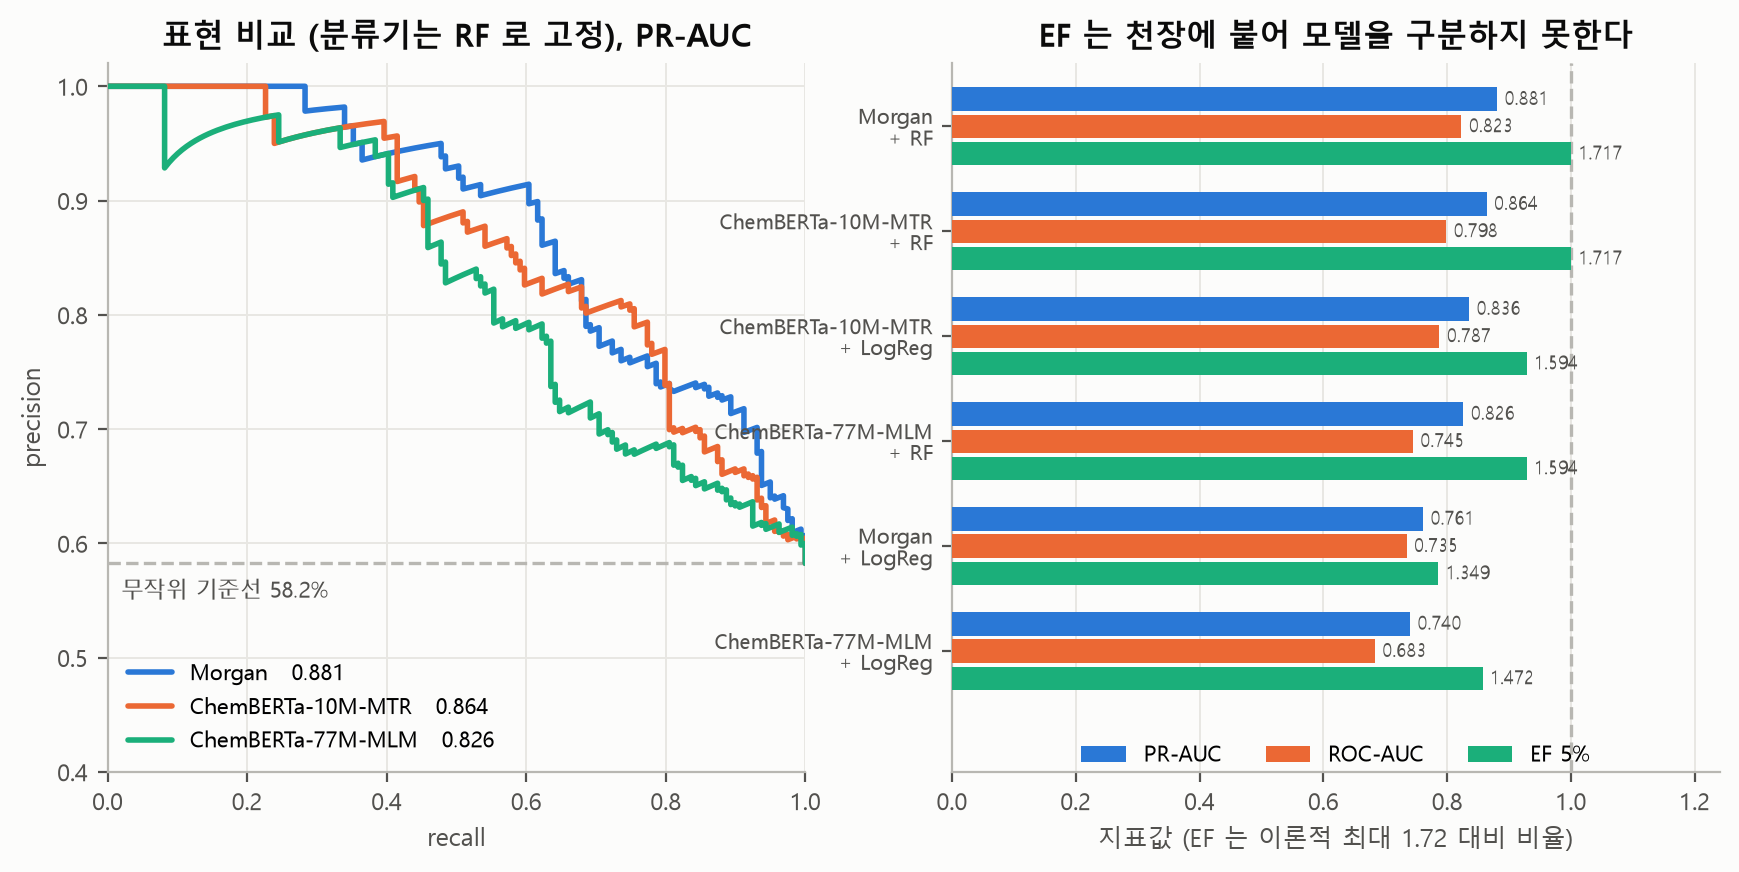
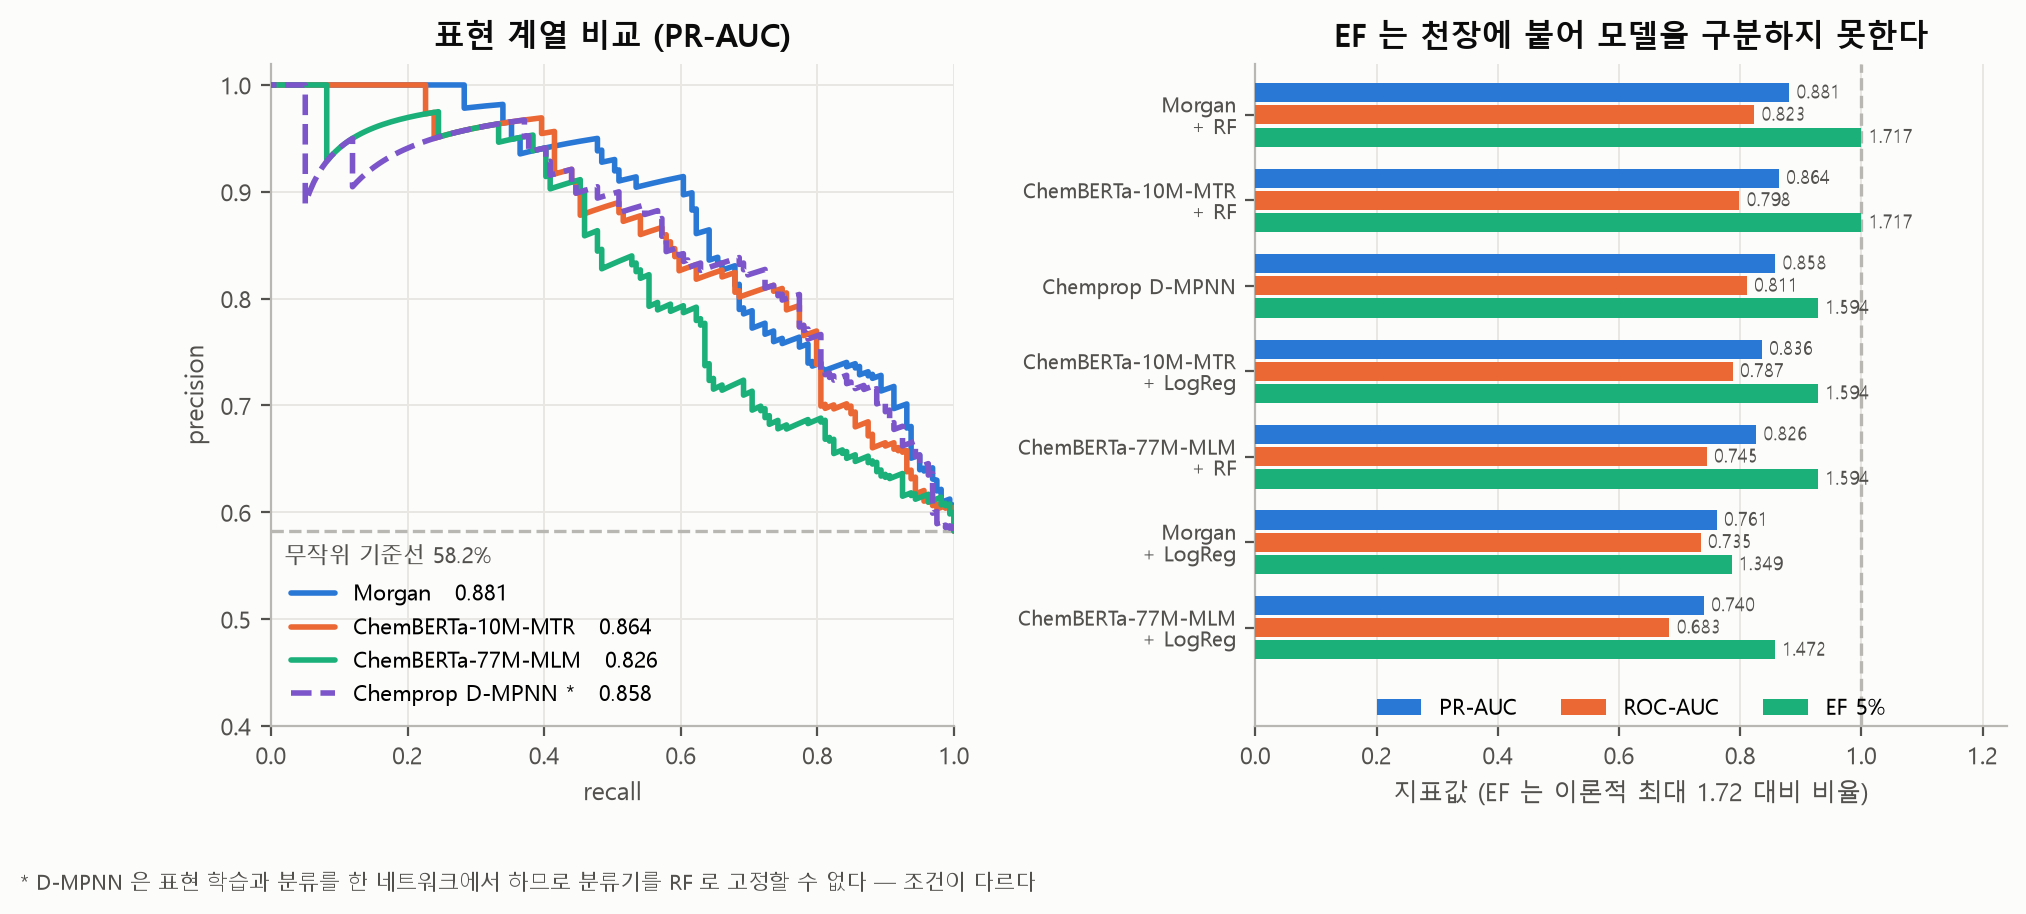
fig2 에 Chemprop D-MPNN 추가 — 표현 4계열 PR 곡선
새 그림을 만들지 않고 기존 fig2 를 늘렸다. 같은 수치를 표와 그림으로 중복해서
싣지 않는다는 기준(분량이 짧을수록 가산점)을 지킨다.

- 왼쪽 패널 제목을 "표현 비교(분류기는 RF 로 고정)"에서 "표현 계열 비교"로 바꿨다.
  D-MPNN 은 표현 학습과 분류를 한 네트워크에서 하므로 분류기를 고정할 수 없다.
  조건이 다르다는 것을 점선과 각주로 표시했다 — 숨기고 같은 그림에 넣지 않는다.
- 12 단계 결과 파일이 없으면 그림은 기존 6개 그대로 그려진다 (add_chemprop).
- test 점수는 행 순서가 아니라 molecule_chembl_id 로 맞추고, 하나라도 안 맞으면 중단한다.

레이아웃 수정 (생성된 PNG 를 눈으로 확인하고 고쳤다):
- 오른쪽 모델 이름이 길어 왼쪽 패널을 침범했다 → wspace 0.42, 가로 11.2인치
- 각주가 x 축 라벨과 겹쳤다 → 아래 여백 0.19 확보 후 그림 하단에 배치

diff --git a/scripts/06_figures.py b/scripts/06_figures.py
@@ -25,6 +25,8 @@ from sklearn.metrics import precision_recall_curve
 # ---- 공통 스타일 -------------------------------------------------------------
 
 BLUE, ORANGE, AQUA, YELLOW = "#2a78d6", "#eb6834", "#1baf7a", "#eda100"
+# 네 번째 계열(그래프)용. 파랑·주황·초록과 구분되는 보라를 쓴다.
+PURPLE = "#7b55c9"
 INK, INK2, MUTED = "#0b0b0b", "#52514e", "#b8b7b2"
 SURFACE = "#fcfcfb"
 
@@ -112,31 +114,77 @@ def fig_redocking(poses, outpath):
 
 # ---- 그림 2: 모델 비교 -------------------------------------------------------
 
+CHEMPROP_LABEL = "Chemprop D-MPNN"
+
+
+def add_chemprop(scores, metrics):
+    """12 단계 Chemprop 결과가 있으면 05 단계 결과에 합친다.
+
+    test 행 순서가 같다고 가정하지 않고 `molecule_chembl_id` 로 맞춘다.
+    파일이 없으면 아무것도 하지 않는다 (12 단계를 아직 안 돌린 경우).
+    """
+    mpath = Path("experiment/12_chemprop/12_chemprop_result.csv")
+    spath = Path("experiment/12_chemprop/12_chemprop_test_scores.csv")
+    if not (mpath.exists() and spath.exists()):
+        return scores, metrics
+
+    cs = pd.read_csv(spath)[["molecule_chembl_id", "score"]]
+    cs = cs.rename(columns={"score": CHEMPROP_LABEL})
+    merged = scores.merge(cs, on="molecule_chembl_id", how="left")
+    if merged[CHEMPROP_LABEL].isna().any():
+        raise SystemExit("Chemprop test 점수가 05 단계 test 분자와 맞지 않는다")
+
+    cm = pd.read_csv(mpath)
+    cm = cm[[c for c in cm.columns if c in metrics.columns]]
+    out = pd.concat([metrics, cm], ignore_index=True)
+    return merged, out.sort_values("pr_auc", ascending=False).reset_index(drop=True)
+
+
 def fig_model_comparison(scores, metrics, outpath):
-    """좌: 표현(feature) 비교 — 분류기는 더 나은 RF 로 고정해 표현만 비교한다.
-       우: 여섯 조합의 지표 전체. EF 천장도 함께 보인다."""
-    fig, (ax1, ax2) = plt.subplots(1, 2, figsize=(10.4, 4.6),
-                                   gridspec_kw={"width_ratios": [1, 1.1]})
+    """좌: 표현 계열 비교 — 지문 / 트랜스포머 / 그래프.
+       우: 조합 전체의 지표. EF 천장도 함께 보인다.
+
+    ⚠ 왼쪽은 "분류기를 RF 로 고정해 표현만 비교"하는 패널이었다.
+    D-MPNN 은 표현 학습과 분류를 한 네트워크에서 하므로 분류기를 고정할 수 없다.
+    그래서 패널 제목을 '계열 비교'로 바꾸고, D-MPNN 만 조건이 다르다는 것을
+    범례에 표시한다. 조건이 다른 것을 같은 그림에 넣으면서 숨기지 않는다."""
+    # 오른쪽 모델 이름이 길어 왼쪽 패널을 침범한다. wspace 를 넉넉히 준다.
+    fig, (ax1, ax2) = plt.subplots(1, 2, figsize=(11.2, 4.8),
+                                   gridspec_kw={"width_ratios": [1, 1.1],
+                                                "wspace": 0.42})
     y = scores["label"].to_numpy()
     order = metrics.sort_values("pr_auc", ascending=False)["model"].tolist()
     order = [m for m in order if m in scores.columns]
 
-    # ---- 좌: RF 로 고정하고 표현만 비교 (3개 — 전부 쌍 검증 통과한 slot 1~3)
+    # ---- 좌: 표현 계열 비교. RF 고정 3개 + D-MPNN(조건 다름)
     rf_models = [m for m in order if m.endswith("+ RF")]
+    panel = rf_models + ([CHEMPROP_LABEL] if CHEMPROP_LABEL in scores.columns else [])
     ax1.grid(zorder=0); ax1.set_axisbelow(True)
     base = y.mean()
     ax1.axhline(base, color=MUTED, lw=1.2, ls="--", zorder=1)
     ax1.text(0.02, base - 0.03, f"무작위 기준선 {base:.1%}", color=INK2, fontsize=8)
 
-    for m, c in zip(rf_models, [BLUE, ORANGE, AQUA]):
+    for m, c in zip(panel, [BLUE, ORANGE, AQUA, PURPLE]):
         prec, rec, _ = precision_recall_curve(y, scores[m])
         pr = metrics.loc[metrics["model"] == m, "pr_auc"].iloc[0]
+        dashed = m == CHEMPROP_LABEL
+        name = m.replace(" + RF", "")
+        if dashed:
+            name += " *"
         ax1.plot(rec, prec, lw=2, color=c, zorder=3, solid_capstyle="round",
-                 label=f"{m.replace(' + RF', '')}   {pr:.3f}")
+                 ls="--" if dashed else "-", label=f"{name}   {pr:.3f}")
     ax1.set_xlim(0, 1); ax1.set_ylim(0.4, 1.02)
     ax1.set_xlabel("recall"); ax1.set_ylabel("precision")
-    ax1.set_title("표현 비교 (분류기는 RF 로 고정), PR-AUC")
+    ax1.set_title("표현 계열 비교 (PR-AUC)")
     ax1.legend(loc="lower left", fontsize=8)
+    if CHEMPROP_LABEL in scores.columns:
+        # 범례·곡선과 겹치지 않도록 축 바깥(그림 하단)에 둔다.
+        # x 축 라벨과 겹치지 않게 아래 여백을 먼저 늘린다.
+        fig.subplots_adjust(bottom=0.19)
+        fig.text(0.013, 0.015,
+                 "* D-MPNN 은 표현 학습과 분류를 한 네트워크에서 하므로 "
+                 "분류기를 RF 로 고정할 수 없다 — 조건이 다르다",
+                 ha="left", va="bottom", fontsize=7.5, color=INK2)
 
     # ---- 우: 여섯 조합 전체
     ax2.grid(axis="x", zorder=0); ax2.set_axisbelow(True)
@@ -279,6 +327,7 @@ def main():
 
     scores = pd.read_csv("experiment/05_model_comparison/05_test_scores.csv")
     metrics = pd.read_csv("experiment/05_model_comparison/05_model_comparison.csv")
+    scores, metrics = add_chemprop(scores, metrics)
     fig_model_comparison(scores, metrics, out / "fig2_model_comparison.png")
 
     cpath = Path("experiment/07_filter/07_filter_counts.json")
